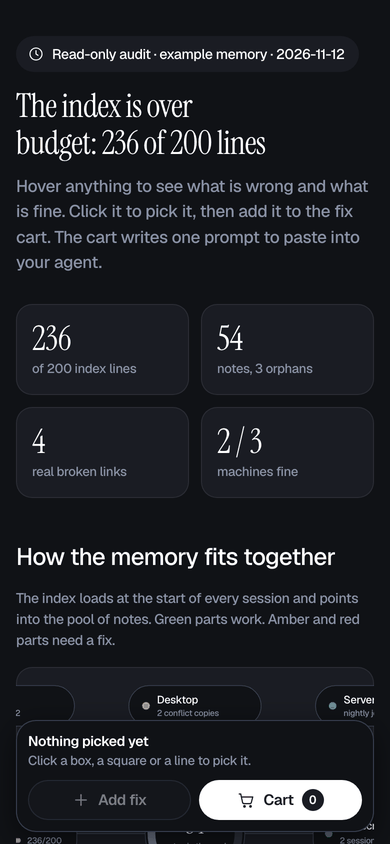
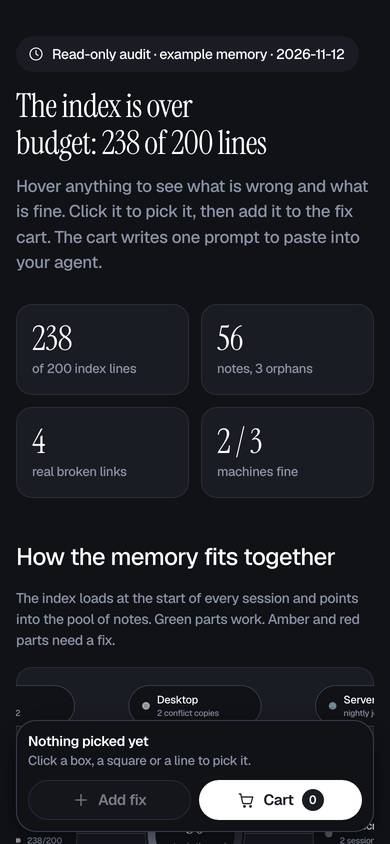
report: show sync leftovers from the audit; rebuild screenshots on the 56-note fixture

diff --git a/scripts/report_template.html b/scripts/report_template.html
@@ -251,7 +251,8 @@ textarea { width: 100%; min-height: 160px; padding: 12px; border: 0; border-radi
   if (D.unmarked.length) poolBad.push(D.unmarked.length + ' state notes with no "verified" marker');
   if (D.orphans.length) poolBad.push(D.orphans.length + ' notes nothing links to'); else poolGood.push('0 orphans: every note is linked');
   if (D.conflicts.length) poolBad.push(D.conflicts.length + ' conflict copies'); else poolGood.push('0 conflict copies');
-  var poolFx = Object.keys(FIX).filter(function (id) { return /^(dup|old|con):/.test(id); });
+  if (D.leftovers) poolBad.push(D.leftovers + ' old copies kept by the sync tool (not notes)');
+  var poolFx = Object.keys(FIX).filter(function (id) { return /^(dup|old|con):/.test(id) || id === 'leftovers'; });
   INFO['n:pool'] = { t: 'Note pool ' + D.pool, s: poolBad.length ? 'warn' : 'ok', good: poolGood, bad: poolBad, fx: poolFx };
   INFO['n:index'] = { t: 'Index (' + I.file + ')', s: over ? 'bad' : 'ok', good: over ? [] : [fmt(I.lines) + ' of ' + I.line_budget + ' lines', fmt(I.bytes) + ' of ' + fmt(I.byte_budget) + ' bytes', 'All of it loads at session start'], bad: over ? ['Over budget: ' + fmt(I.lines) + ' lines, ' + fmt(I.bytes) + ' bytes. Only the first ' + I.line_budget + ' lines or ' + fmt(I.byte_budget) + ' bytes load.'] : [], fx: FIX.index ? ['index'] : [] };
   INFO['n:tx'] = D.transcripts == null

diff --git a/scripts/report.py b/scripts/report.py
@@ -126,6 +126,11 @@ def build(pool, transcripts=None, extras=None, findings=None, index='MEMORY.md',
         fixes['cc:' + c] = dict(label='Resolve ' + c, text='Compare the conflict copy %s with its live note, keep the right text, and archive the copy.' % c)
     for f in rep['orphans']:
         fixes['orph:' + f] = dict(label='Link ' + f, text='Nothing links to %s. Add it to the index or a topic page, or archive it if it is no longer useful.' % f)
+    lo = rep.get('sync_leftovers') or {}  # {folder: file count}, e.g. {'.stversions': 88}
+    leftovers = sum(lo.values())
+    if leftovers:
+        where = ', '.join('%s (%d)' % (d, c) for d, c in sorted(lo.items()))
+        fixes['leftovers'] = dict(label='Clear %d sync leftovers' % leftovers, text='Move the old copies the sync tool kept in %s out of the live pool into an archive folder. They are not notes.' % where)
     if rep['index']['over_budget']:
         fixes['index'] = dict(label='Shrink the index', text='%s is %d lines and %d bytes; only the first %d lines or %d bytes load. Move detail onto topic pages and keep one line per topic.' % (
             index, rep['index']['lines'], rep['index']['bytes'], rep['index']['line_budget'], rep['index']['byte_budget']))
@@ -160,7 +165,7 @@ def build(pool, transcripts=None, extras=None, findings=None, index='MEMORY.md',
     return dict(
         pool=label or rep['pool'], date=datetime.date.today().isoformat(),
         index=rep['index'], notes=rep['notes'], classes=rep['classes'],
-        orphans=rep['orphans'], conflicts=rep['conflict_copies'], marked=rep['verified_marked'],
+        orphans=rep['orphans'], conflicts=rep['conflict_copies'], marked=rep['verified_marked'], leftovers=leftovers,
         transcripts=tcount, used=sum(1 for v in reads.values() if v) if reads else None,
         links=links, grid=grid, unmarked=unmarked, fixes=fixes,
         machines=ex.get('machines', []),
